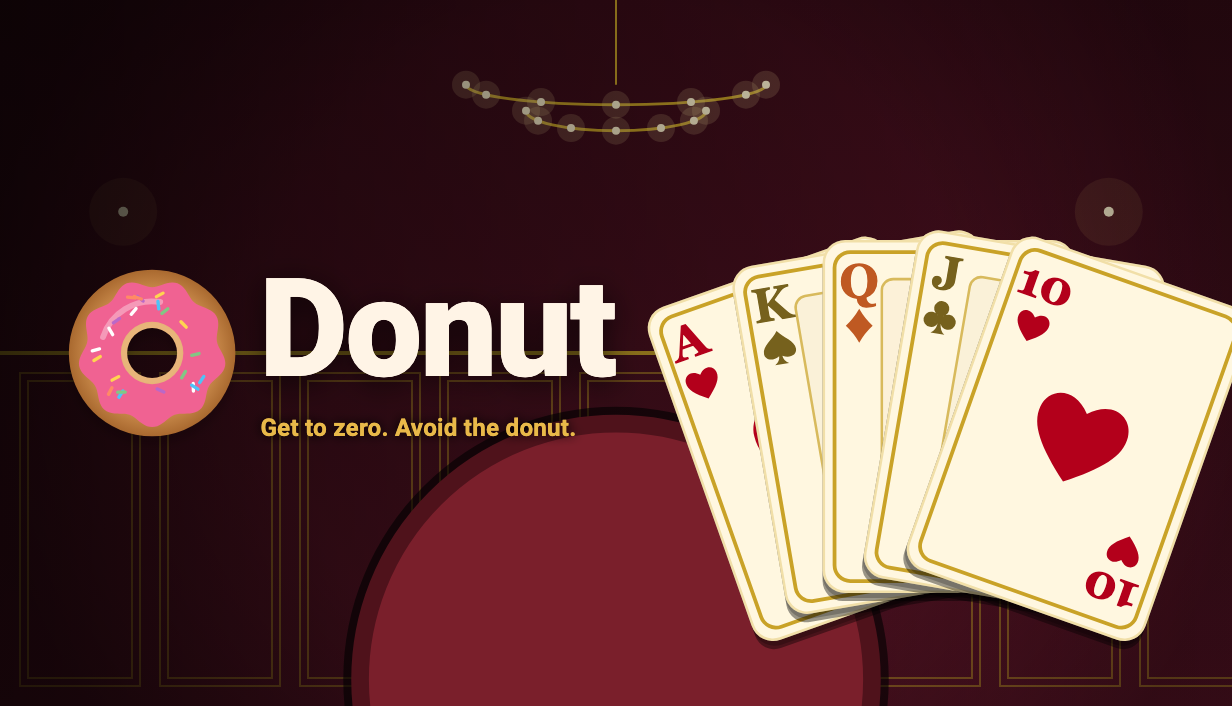
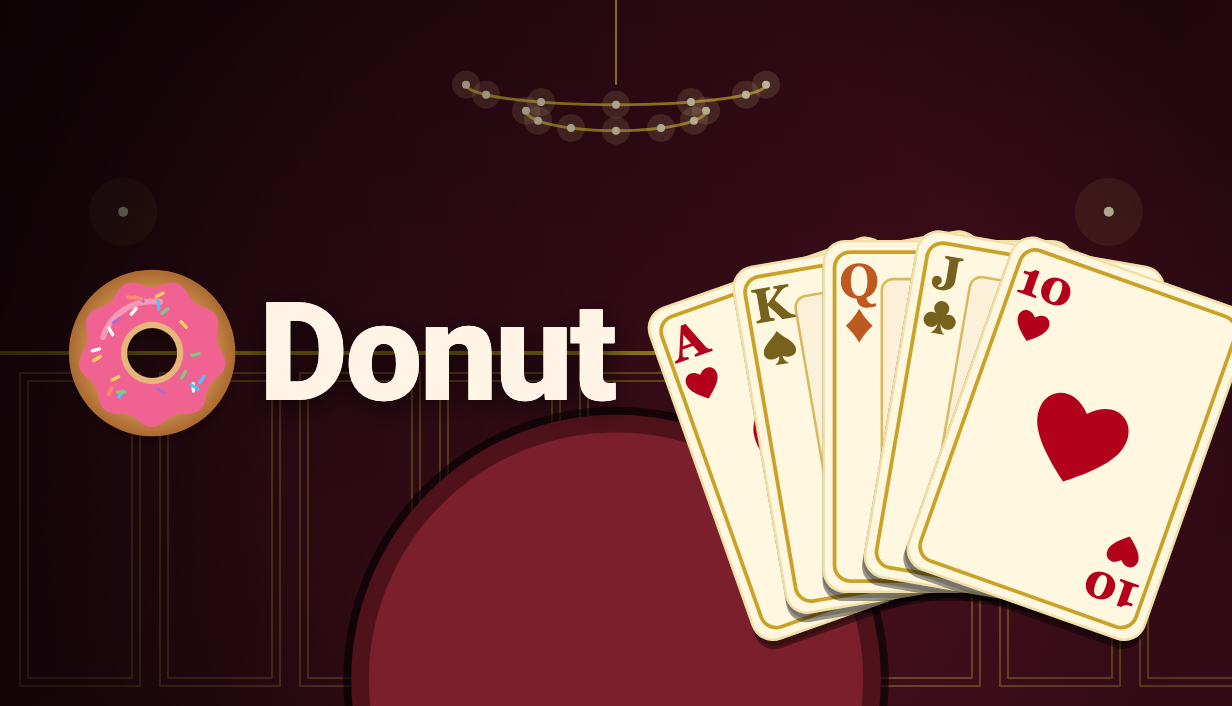
Take the tagline off the Steam art

Changed region(s): [[0.2159, 0.3739, 0.5244, 0.6232]]

diff --git a/test/store_art_test.dart b/test/store_art_test.dart
@@ -75,8 +75,8 @@ void main() {
   final art = <String, (Size, Widget)>{
     'store_header_capsule': (const Size(920, 430), const KeyArt(layout: ArtLayout.wide)),
     'store_small_capsule': (const Size(462, 174), const KeyArt(layout: ArtLayout.small)),
-    'store_main_capsule': (const Size(1232, 706), const KeyArt(layout: ArtLayout.wide, tagline: true)),
-    'store_vertical_capsule': (const Size(748, 896), const KeyArt(layout: ArtLayout.tall, tagline: true)),
+    'store_main_capsule': (const Size(1232, 706), const KeyArt(layout: ArtLayout.wide)),
+    'store_vertical_capsule': (const Size(748, 896), const KeyArt(layout: ArtLayout.tall)),
     'store_page_background': (const Size(1438, 810), const KeyArt(layout: ArtLayout.scene, dim: 0.55)),
     'library_capsule': (const Size(600, 900), const KeyArt(layout: ArtLayout.tall)),
     'library_header': (const Size(920, 430), const KeyArt(layout: ArtLayout.wide)),
@@ -206,10 +206,9 @@ enum ArtLayout { wide, small, tall, scene, logoOnly, icon }
 
 /// The key art: a venue, its table, a fanned hand and the Donut mark.
 class KeyArt extends StatelessWidget {
-  const KeyArt({super.key, required this.layout, this.tagline = false, this.dim = 0});
+  const KeyArt({super.key, required this.layout, this.dim = 0});
 
   final ArtLayout layout;
-  final bool tagline;
 
   /// Darkens everything, for art that sits behind the store page.
   final double dim;
@@ -277,7 +276,6 @@ class KeyArt extends StatelessWidget {
               child: _mark(
                 tall ? w * 0.42 : h * (small ? 0.62 : 0.42),
                 row: !tall,
-                tagline: tagline && !small,
               ),
             ),
           ),
@@ -336,7 +334,7 @@ class KeyArt extends StatelessWidget {
   }
 
   /// The donut and the name, side by side or stacked.
-  Widget _mark(double size, {required bool row, bool tagline = false}) {
+  Widget _mark(double size, {required bool row}) {
     final title = Text(
       'Donut',
       style: TextStyle(
@@ -346,30 +344,12 @@ class KeyArt extends StatelessWidget {
         height: 1,
         color: const Color(0xFFFFF4E6),
         letterSpacing: -size * 0.01,
-        shadows: [Shadow(color: Colors.black.withValues(alpha: 0.6), blurRadius: size * 0.08, offset: Offset(0, size * 0.03))],
+        shadows: [
+          Shadow(color: Colors.black.withValues(alpha: 0.6), blurRadius: size * 0.08, offset: Offset(0, size * 0.03))
+        ],
       ),
     );
-    final words = Column(
-      mainAxisSize: MainAxisSize.min,
-      crossAxisAlignment: row ? CrossAxisAlignment.start : CrossAxisAlignment.center,
-      children: [
-        title,
-        if (tagline)
-          Padding(
-            padding: EdgeInsets.only(top: size * 0.06),
-            child: Text(
-              'Get to zero. Avoid the donut.',
-              style: TextStyle(
-                fontFamily: 'Roboto',
-                fontWeight: FontWeight.w600,
-                fontSize: size * (row ? 0.11 : 0.085),
-                color: const Color(0xFFE9B949),
-                shadows: const [Shadow(color: Colors.black, blurRadius: 8)],
-              ),
-            ),
-          ),
-      ],
-    );
+    final words = title;
     final logo = DonutLogo(size: size * (row ? 0.82 : 0.7), frosting: const Color(0xFFF06292));
     return FittedBox(
       child: row
